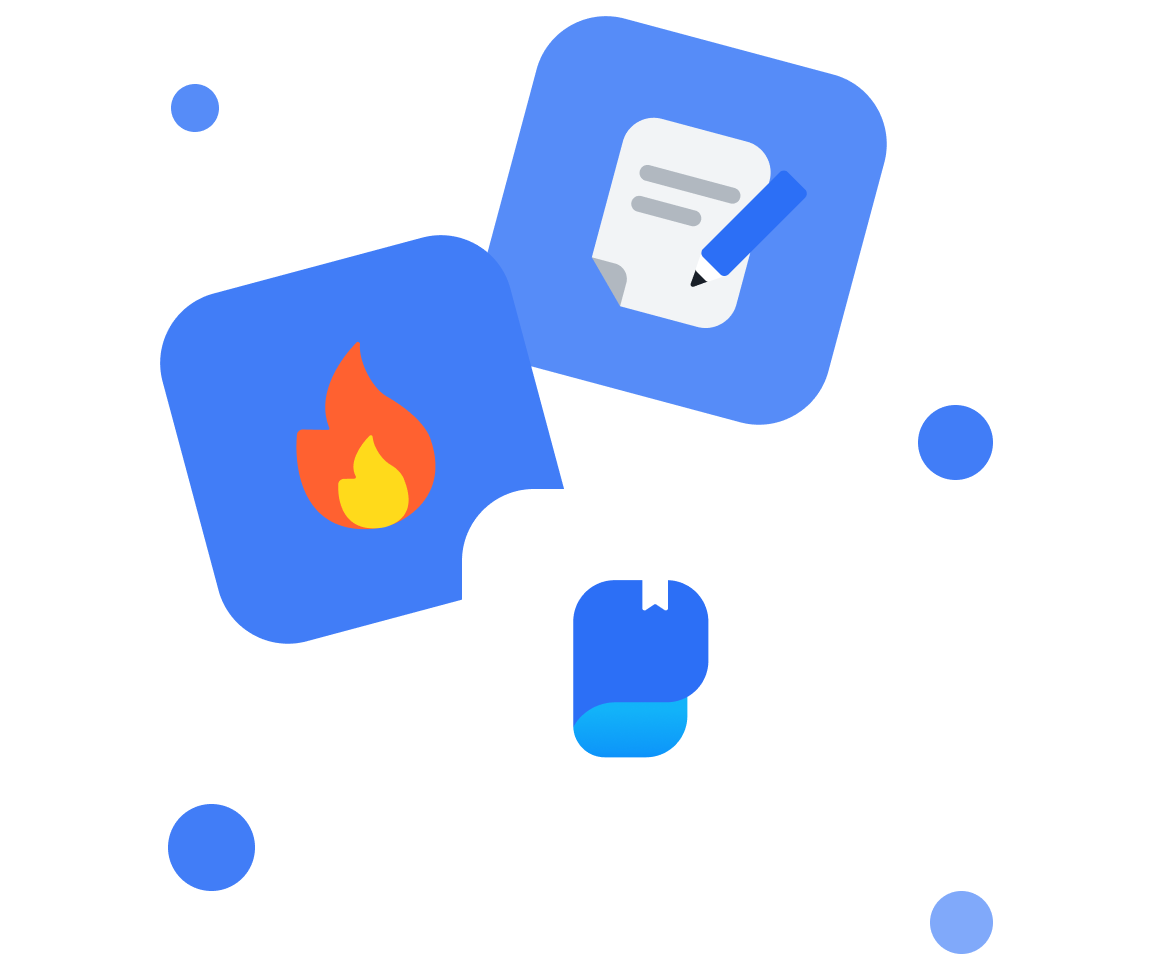
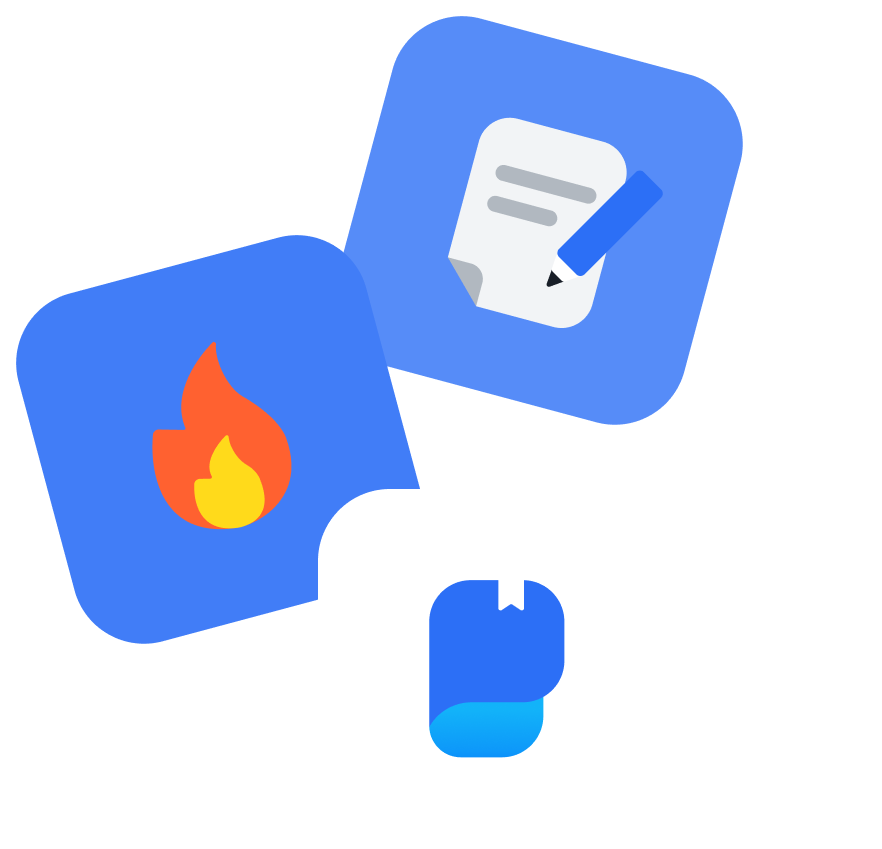
SignInPage Assets 영역 개선

diff --git a/build/index.html b/build/index.html
@@ -1,1 +1,1 @@
-<!doctype html><html lang="ko"><head><meta charset="utf-8"/><link rel="icon" href="/favicon.ico"/><meta name="viewport" content="width=device-width,initial-scale=1,user-scalable=no,minimum-scale=1,maximum-scale=1"/><meta id="theme" name="theme-color" content="#fff"/><meta property="title" content="Exam Helper"/><meta itemprop="url" content="https://exam-helper-dc8a2.web.app/"/><meta itemprop="image" content="/share-img.jpg"/><meta name="description" content="이그잼 헬퍼는 바쁜 일상 속에서도 간편하게 공부할 수 있도록 도와주는 웹 애플리케이션입니다."/><meta name="keywords" content="공부, 학습, 자기 개발, 출퇴근 공부, 시험, 시험 공부, 공부 앱, 공부 웹사이트, 공부 도우미, 시험 도우미"/><meta property="og:type" content="website"/><meta property="og:url" content="https://exam-helper-dc8a2.web.app/"/><meta property="og:title" content="Exam Helper"/><meta property="og:site_name" content="Exam Helper"/><meta property="og:image" content="/share-img.jpg"/><meta property="og:description" content="이그잼 헬퍼는 바쁜 일상 속에서도 간편하게 공부할 수 있도록 도와주는 웹 애플리케이션입니다."/><meta name="twitter:card" content="summary"/><meta name="twitter:title" content="Exam Helper"/><meta name="twitter:description" content="이그잼 헬퍼는 바쁜 일상 속에서도 간편하게 공부할 수 있도록 도와주는 웹 애플리케이션입니다."/><meta name="twitter:image" content="/share-img.jpg"/><link rel="stylesheet" as="style" crossorigin href="https://cdn.jsdelivr.net/gh/orioncactus/pretendard@v1.3.8/dist/web/static/pretendard.css"/><link rel="preconnect" href="https://fonts.googleapis.com"/><link rel="preconnect" href="https://fonts.gstatic.com" crossorigin/><link href="https://fonts.googleapis.com/css2?family=Black+Ops+One&display=swap" rel="stylesheet"/><title>Exam Helper</title><script defer="defer" src="/static/js/main.c80568e5.js"></script><link href="/static/css/main.76bc7f7f.css" rel="stylesheet"></head><body><noscript>You need to enable JavaScript to run this app.</noscript><div id="overlays"></div><div id="root"></div></body></html>
+<!doctype html><html lang="ko"><head><meta charset="utf-8"/><link rel="icon" href="/favicon.ico"/><meta name="viewport" content="width=device-width,initial-scale=1,user-scalable=no,minimum-scale=1,maximum-scale=1"/><meta id="theme" name="theme-color" content="#fff"/><meta property="title" content="Exam Helper"/><meta itemprop="url" content="https://exam-helper-dc8a2.web.app/"/><meta itemprop="image" content="/share-img.jpg"/><meta name="description" content="이그잼 헬퍼는 바쁜 일상 속에서도 간편하게 공부할 수 있도록 도와주는 웹 애플리케이션입니다."/><meta name="keywords" content="공부, 학습, 자기 개발, 출퇴근 공부, 시험, 시험 공부, 공부 앱, 공부 웹사이트, 공부 도우미, 시험 도우미"/><meta property="og:type" content="website"/><meta property="og:url" content="https://exam-helper-dc8a2.web.app/"/><meta property="og:title" content="Exam Helper"/><meta property="og:site_name" content="Exam Helper"/><meta property="og:image" content="/share-img.jpg"/><meta property="og:description" content="이그잼 헬퍼는 바쁜 일상 속에서도 간편하게 공부할 수 있도록 도와주는 웹 애플리케이션입니다."/><meta name="twitter:card" content="summary"/><meta name="twitter:title" content="Exam Helper"/><meta name="twitter:description" content="이그잼 헬퍼는 바쁜 일상 속에서도 간편하게 공부할 수 있도록 도와주는 웹 애플리케이션입니다."/><meta name="twitter:image" content="/share-img.jpg"/><link rel="stylesheet" as="style" crossorigin href="https://cdn.jsdelivr.net/gh/orioncactus/pretendard@v1.3.8/dist/web/static/pretendard.css"/><link rel="preconnect" href="https://fonts.googleapis.com"/><link rel="preconnect" href="https://fonts.gstatic.com" crossorigin/><link href="https://fonts.googleapis.com/css2?family=Black+Ops+One&display=swap" rel="stylesheet"/><title>Exam Helper</title><script defer="defer" src="/static/js/main.8fc587c1.js"></script><link href="/static/css/main.76bc7f7f.css" rel="stylesheet"></head><body><noscript>You need to enable JavaScript to run this app.</noscript><div id="overlays"></div><div id="root"></div></body></html>

diff --git a/src/pages/SignIn.tsx b/src/pages/SignIn.tsx
@@ -46,7 +46,11 @@ function SignInPage() {
     <Container>
       <VisualSection>
         <img src={Assets} />
-        <h3>{"내일의 결과를\n만드는 시작."}</h3>
+        <h3>{"내일의 결과를\n만드는 시작"}</h3>
+        <span className="dot-01" />
+        <span className="dot-02" />
+        <span className="dot-03" />
+        <span className="dot-04" />
       </VisualSection>
       <ContentSection>
         <Input
@@ -71,27 +75,73 @@ const Container = styled.div`
   flex-direction: column;
   width: 100%;
   min-height: 100%;
+  height: 100dvh;
   background: ${Color.Primary[700]};
 `;
 
 const VisualSection = styled.div`
   position: relative;
-  flex: 1;
+  width: 100%;
+  height: calc(100% - 242px);
+  padding-block: 25px;
+  box-sizing: border-box;
+  display: flex;
+  flex-direction: column;
+  justify-content: center;
+  gap: 20px;
+  overflow: hidden;
 
   & img {
-    width: 100%;
+    padding-inline: 48px;
+    box-sizing: border-box;
+    height: calc(100% - (80px + 20px));
     object-fit: contain;
   }
 
   & h3 {
-    position: absolute;
-    left: 50%;
-    bottom: 30px;
-    transform: translate3d(-50%, 0, 0);
+    height: 80px;
     text-align: center;
     color: ${Color.Gray[100]};
     ${Heading.H1};
     white-space: pre;
+  }
+
+  & :is(.dot-01, .dot-02, .dot-03, .dot-04) {
+    content: "";
+    position: absolute;
+    border-radius: 50%;
+  }
+
+  & .dot-01 {
+    top: 12.5641%;
+    left: 14.61538%;
+    width: 4.102564%;
+    padding-bottom: 4.102564%;
+    background: #568cf8;
+  }
+
+  & .dot-02 {
+    top: 40%;
+    right: 15.1282%;
+    width: 6.410256%;
+    padding-bottom: 6.410256%;
+    background: #417df7;
+  }
+
+  & .dot-03 {
+    top: 74.10256%;
+    left: 14.3589%;
+    width: 7.43589%;
+    padding-bottom: 7.43589%;
+    background: #417df7;
+  }
+
+  & .dot-04 {
+    top: 81.53846%;
+    right: 15.1282%;
+    width: 5.3846%;
+    padding-bottom: 5.3846%;
+    background: #80a9fa;
   }
 `;
 

diff --git a/src/components/main/Banner.tsx b/src/components/main/Banner.tsx
@@ -2,7 +2,7 @@ import React from "react";
 import styled from "styled-components";
 import { Swiper, SwiperSlide } from "swiper/react";
 import "swiper/css";
-import { Admin, Banner as BannerType } from "types/admin-data";
+import { Banner as BannerType } from "types/admin-data";
 import { nanoid } from "nanoid";
 
 interface Props {
@@ -62,5 +62,7 @@ const Item = styled(SwiperSlide)`
     width: 100%;
     height: 100%;
     object-fit: cover;
+    cursor: pointer;
+    user-select: none;
   }
 `;
